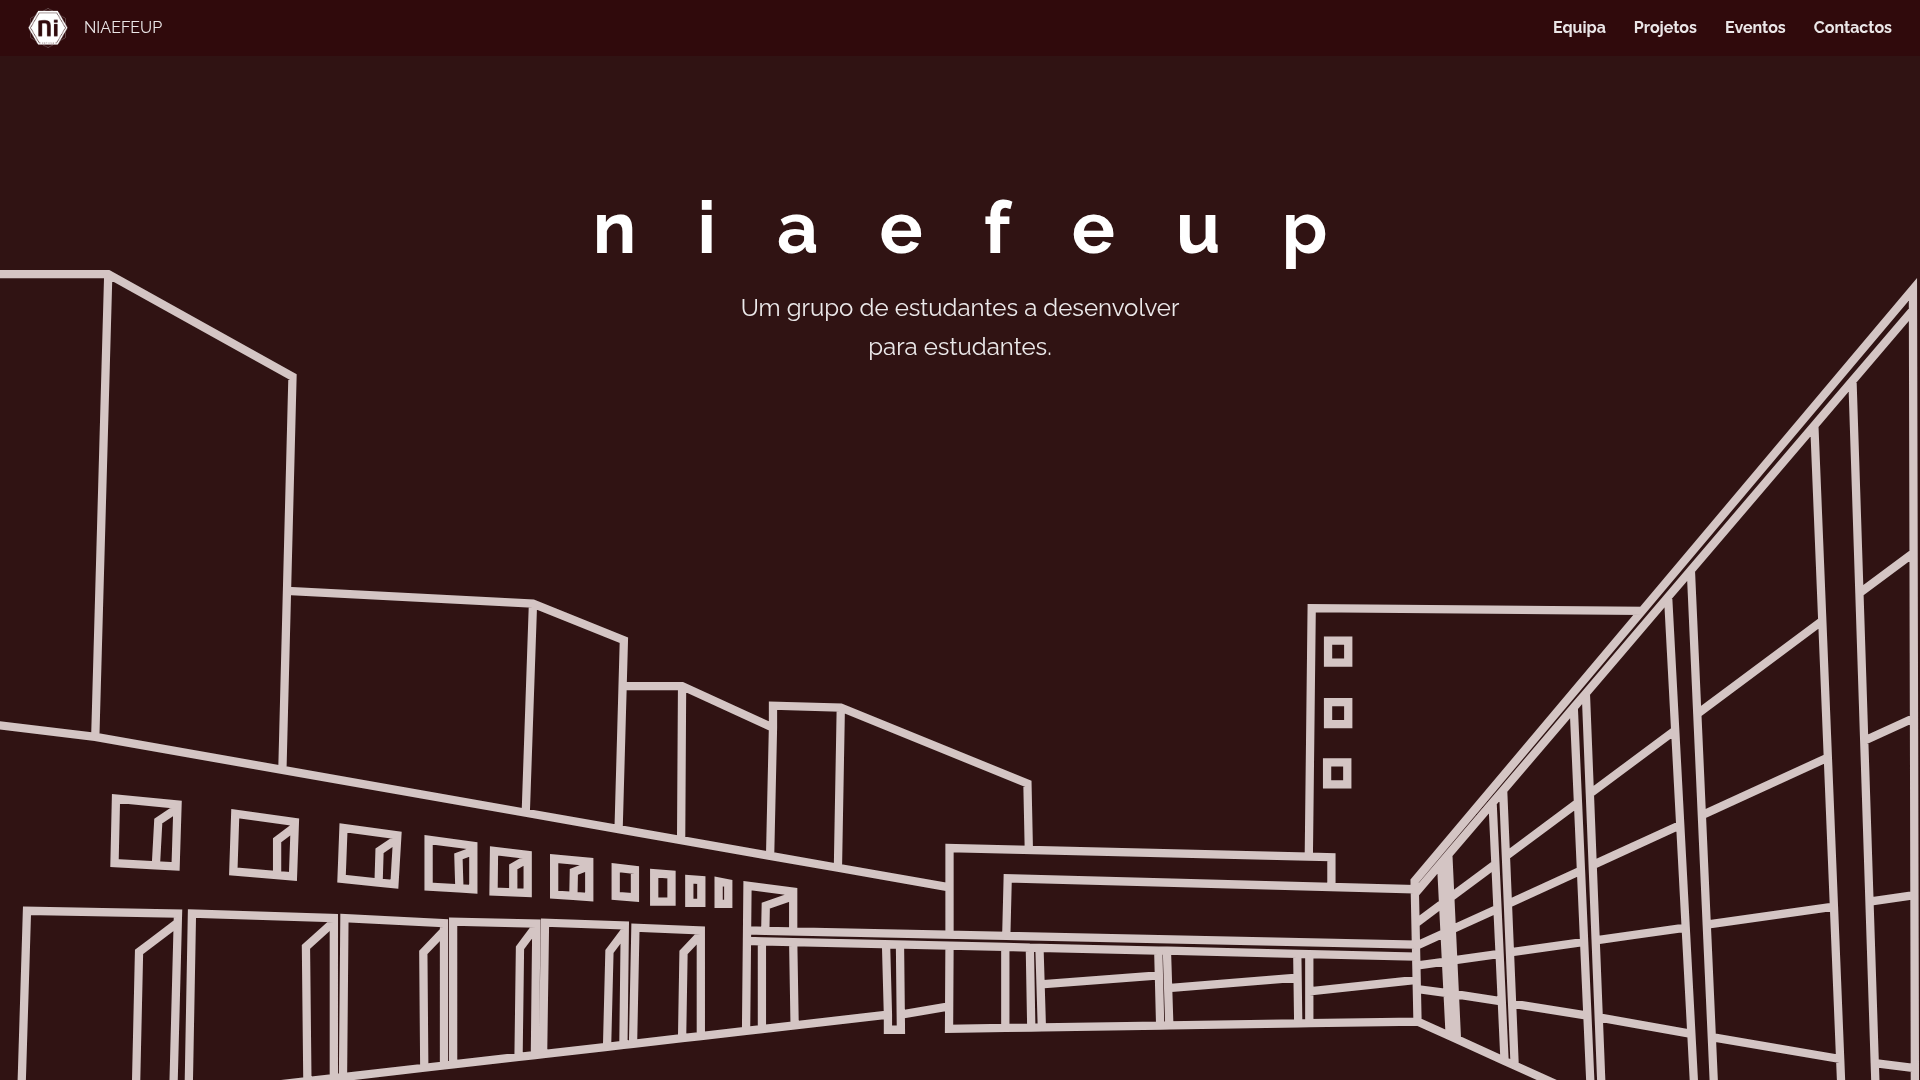
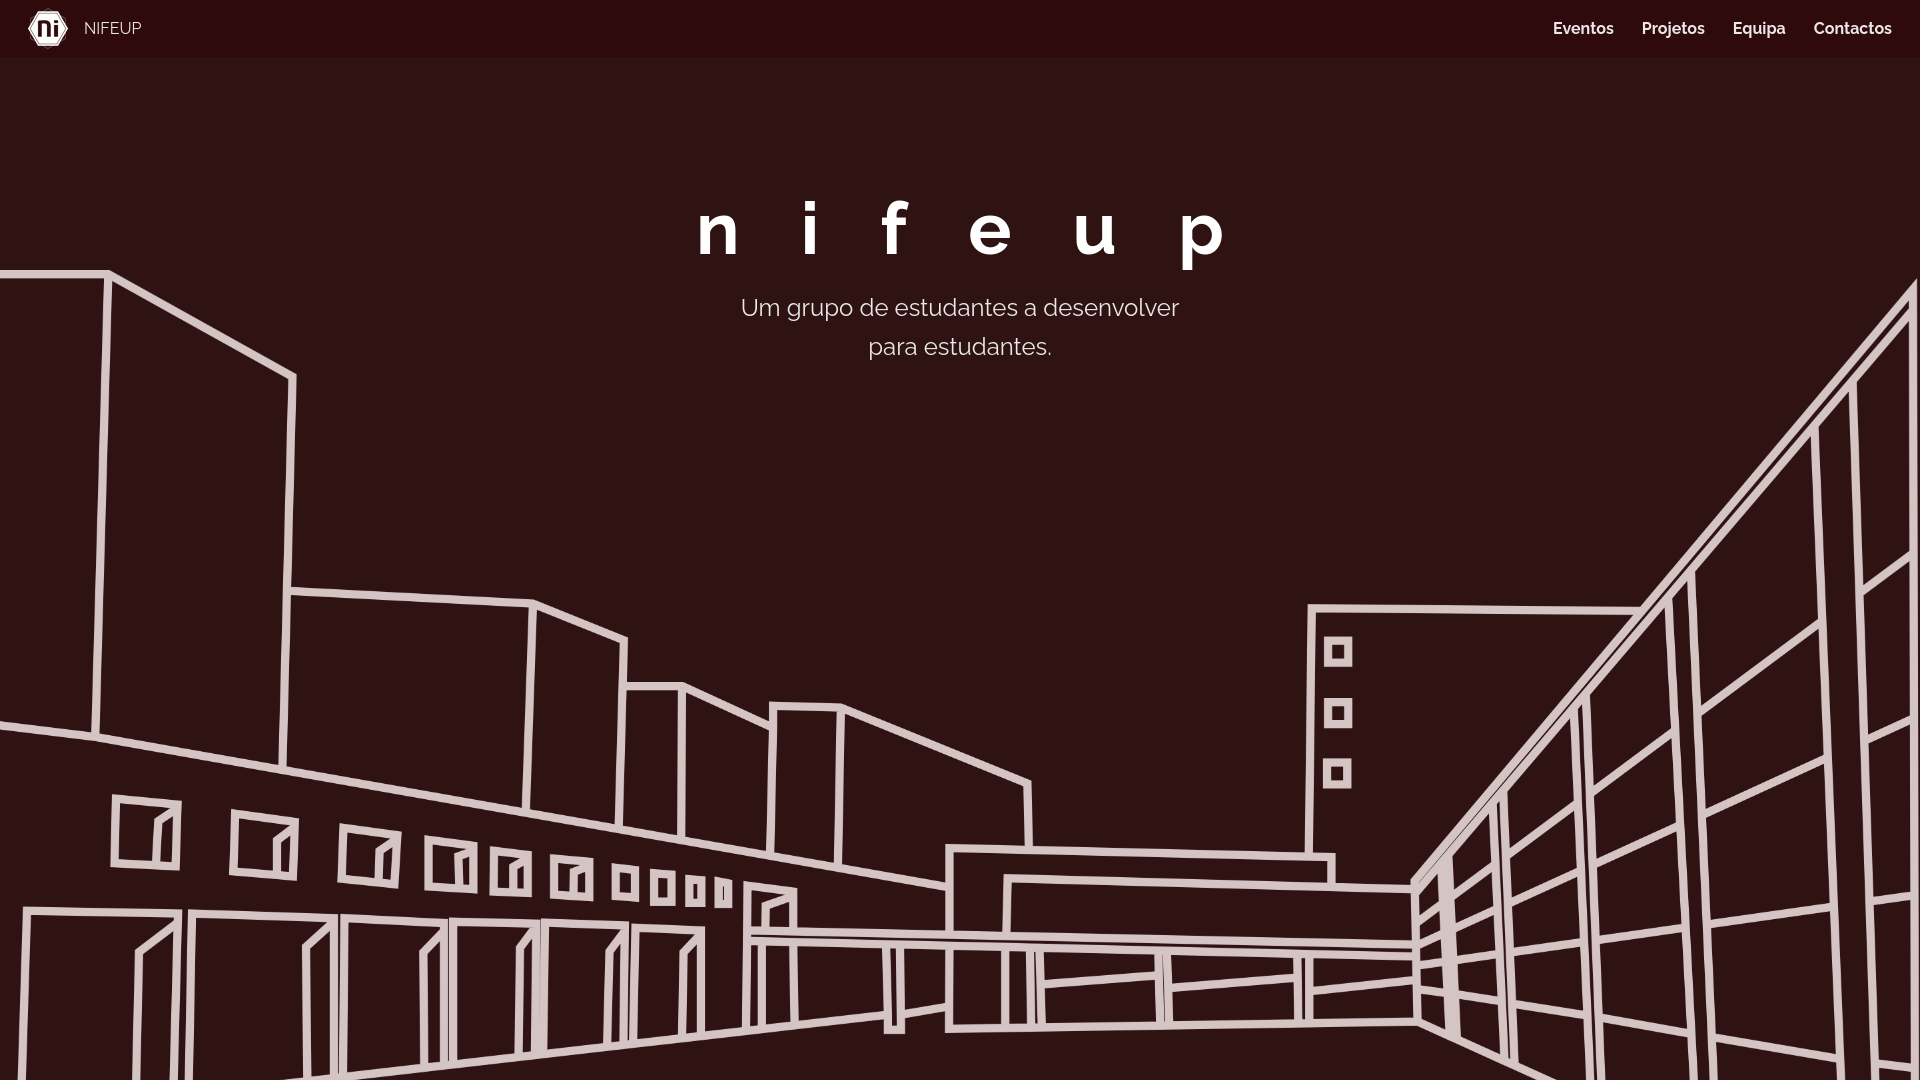
updated webiste project photos

diff --git a/src/routes/(app)/(home)/_components/about-section.svelte b/src/routes/(app)/(home)/_components/about-section.svelte
@@ -11,11 +11,10 @@
     <p
       class="font-raleway text-center text-base font-normal leading-relaxed text-white/90 sm:text-lg md:text-xl lg:text-2xl"
     >
-      O NIFEUP é constituído inteiramente por alunos do curso de Engenharia Informática e Computação — 
-      desde a licenciatura (L.EIC) aos vários mestrados da área. 
-      A nossa principal motivação é ganhar experiência e competências essenciais para
-      o mundo do trabalho assim como cultivar nos nossos colegas a vontade de aprender linguagens e
-      novas tecnologias.
+      O NIFEUP é constituído inteiramente por alunos do curso de Engenharia Informática e Computação
+      — desde a licenciatura (L.EIC) aos vários mestrados da área. A nossa principal motivação é
+      ganhar experiência e competências essenciais para o mundo do trabalho assim como cultivar nos
+      nossos colegas a vontade de aprender linguagens e novas tecnologias.
     </p>
   </div>
 </section>
